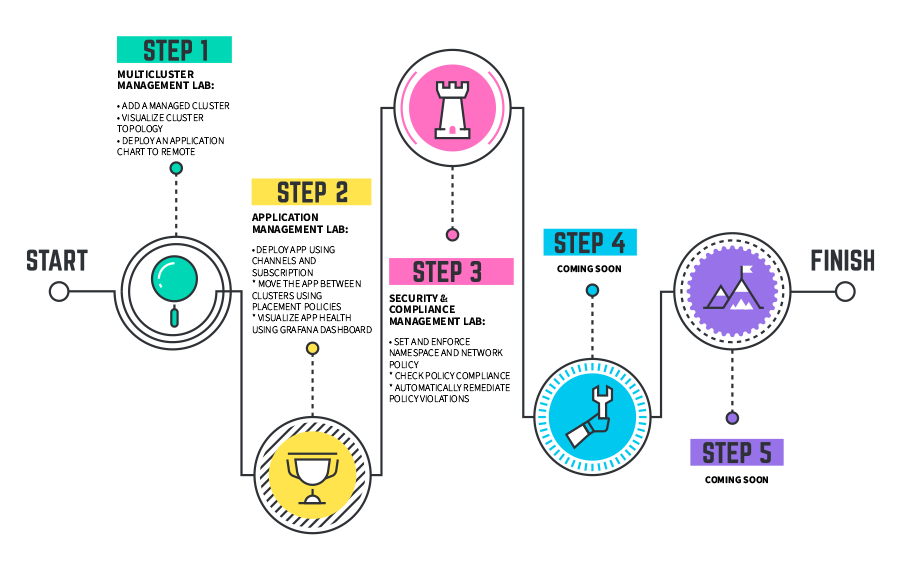
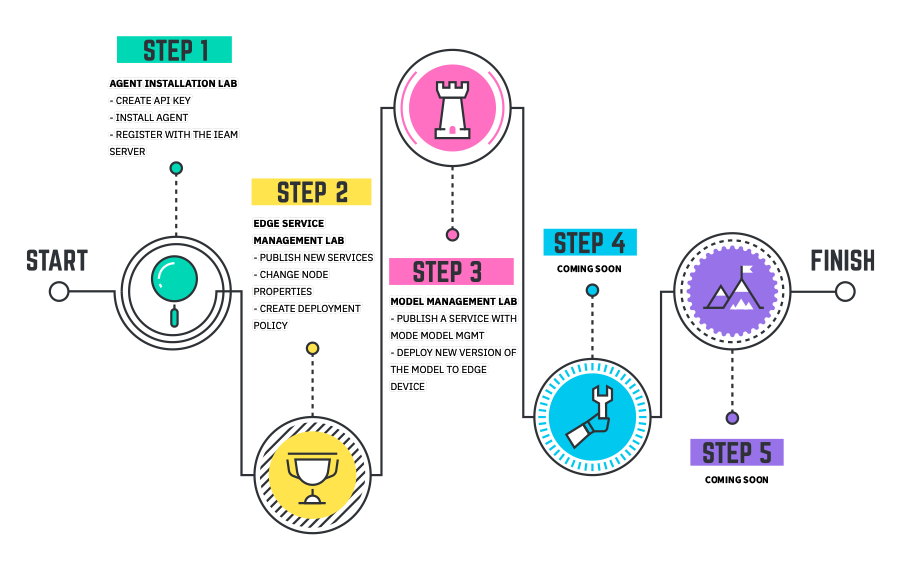
fixed images

Changed region(s): [[0.28, 0.3579, 0.5911, 0.7158], [0.1244, 0.1193, 0.28, 0.2684]]

diff --git a/src/pages/labs/svcmgmt/index.md b/src/pages/labs/svcmgmt/index.md
@@ -8,7 +8,7 @@ description: Managing edge services uing IBM Edge Application Manager
   color="dark"
   >
 
-![banner](/images/grocery-banner.jpg)
+![banner](/images/grocery-banner.png)
 
 </FeatureCard>
 
@@ -28,16 +28,16 @@ description: Managing edge services uing IBM Edge Application Manager
 
 ## Lab Overview
 
-IBM Cloud Pak for Multicloud Management provides consistent visibility, automation, and governance across a range of multicloud management capabilities such as cost and asset management, infrastructure management, application management, multi-cluster management, edge management, and integration with existing tools and processes. Customers can leverage Cloud Pak for Multicloud Management to simplify their IT and application ops management, while increasing flexibility and cost savings with intelligent data analysis driven by predictive signals.
+    IBM Cloud Pak for Multicloud Management provides consistent visibility, automation, and governance across a range of multicloud management capabilities such as cost and asset management, infrastructure management, application management, multi-cluster management, edge management, and integration with existing tools and processes. Customers can leverage Cloud Pak for Multicloud Management to simplify their IT and application ops management, while increasing flexibility and cost savings with intelligent data analysis driven by predictive signals.
 
-IBM Cloud Pak for Multicloud Management can manage Kubernetes clusters that are deployed on any target infrastructure - either in your own data center or in a public cloud.
+    IBM Cloud Pak for Multicloud Management can manage Kubernetes clusters that are deployed on any target infrastructure - either in your own data center or in a public cloud.
 
-In this tutorial, you will explore the following key capabilities:
+    In this tutorial, you will explore the following key capabilities:
 
-- Understand IBM Edge Application Manager
-- Learn how to add and configure edge nodes
-- Learn how to register a new edge workloads (services)
-- Learn how to enable autonomous management with policies
+    - Understand IBM Edge Application Manager
+    - Learn how to add and configure edge nodes
+    - Learn how to register a new edge workloads (services)
+    - Learn how to enable autonomous management with policies
 
 ***
 
@@ -49,33 +49,31 @@ This tutorial assume that you have already installed agent on edge device and re
 
 ## Business Context
 
-Edge computing combined with 5G creates tremendous opportunities for new products, platforms, and experiences in every industry. Edge brings computation and data storage closer to where data is created by people, places and things - to enable faster insights and actions, reduce data exposure and maintain continuous operations. By 2025, 75 percent of enterprise data will be processed at the Edge, compared to only 10 percent today. IBM extends cloud computing to the Edge, with autonomous management capabilities that address new challenges of massive scale, variability, and rate of change - in enterprises and in telcos. [IBM Edge Application Manager](https://www.ibm.com/cloud/edge-application-manager) runs on Red Hat OpenShift, the leading open hybrid multicloud platform that runs anywhere - from any data center, to multiple clouds, to the edge.
+  Edge computing combined with 5G creates tremendous opportunities for new products, platforms, and experiences in every industry. Edge brings computation and data storage closer to where data is created by people, places and things - to enable faster insights and actions, reduce data exposure and maintain continuous operations. By 2025, 75 percent of enterprise data will be processed at the Edge, compared to only 10 percent today. IBM extends cloud computing to the Edge, with autonomous management capabilities that address new challenges of massive scale, variability, and rate of change - in enterprises and in telcos. [IBM Edge Application Manager](https://www.ibm.com/cloud/edge-application-manager) runs on Red Hat OpenShift, the leading open hybrid multicloud platform that runs anywhere - from any data center, to multiple clouds, to the edge.
 
 ***
 
 ## Scenario Introduction
 
-ACME Grocery wants to deliver a new user experience in their stores.
+    ACME Grocery wants to deliver a new user experience in their stores.
 
-ACME Grocery is a retail chain that recently started a project to modernize its stores to enhance customer experience and achieve cost savings adopting some of the modern AI-based technologies. In the first phase of the project, the retail chain is deploying smart devices in its locations distributed across the country.
+    ACME Grocery is a retail chain that recently started a project to modernize its stores to enhance customer experience and achieve cost savings adopting some of the modern AI-based technologies. In the first phase of the project, the retail chain is deploying smart devices in its locations distributed across the country.
 
-There are two types of devices to be managed:
+    There are two types of devices to be managed:
 
-- **Smart shopping carts** (also known aa "smartcarts")
+    - **Smart shopping carts** (also known aa "smartcarts")
 
-- **Smart scales** for weighting unpackaged goods, which automatically
-    detect what is being weighted to apply correct price (smart camera
-    with AI-based visual recognition)
+    - **Smart scales** for weighting unpackaged goods, which automatically
+        detect what is being weighted to apply correct price (smart camera
+        with AI-based visual recognition)
 
-In this scenario, you are the Operations team engineer responsible for managing the smart devices at scale.
-
-***
-
-
+    In this scenario, you are the Operations team engineer responsible for managing the smart devices at scale.
 
 ***
 
-## Registering the edge-device as "smartcart"
+## Publish edge services
+
+  To start deploying workloads to edge devices you have to first define the services in the IBM Edge Application Manager management hub. The detailed instructions are available in the [Knowledge Center](https://www.ibm.com/support/knowledgecenter/pl/SSFKVV_4.2/developing/developing_edge_services.html). For the following lab, you can use the shortened version using the files prepared for you in the GitHub respository and sample docker images already published to the DockerHub.
 
   If you restarted SSH connection after performing agent installation lab, setup the required environment variables ($USERNAME refers to your user in the IBM Edge Application Manager web console)
 
@@ -93,7 +91,20 @@ In this scenario, you are the Operations team engineer responsible for managing 
   cd edge-demo
   ```
 
-  1. To change the node type and node properties, you need to first unregister the device from the IBM Edge Application Manager server. This activity is done usually only in the development and testing phase. In real life, the physical edge devices get their configuration during the initial install process.
+  To publish a service you have to first create the signing key. This key will be used to ensure the service origination and will prevent tampering or unathorized modifications to service metadata.
+
+  The repository that you have copied above contains the definitions of multiple services and a script that will automate the process. To run the script issue the following command in the terminal windows connected to your edge device:
+
+  ```sh
+  publish-services.sh
+  ```
+
+  
+***
+
+## Registering the edge-device as "smartcart"
+
+  1. Node properties can be defined in the Web cosnole of IBM Edge Application Manager, however this approach is not practical to manage devices at scale. In the following exercise you will use a scripted approach leveraging the Horizon CLI. To change the node type and node properties uzing the `hzn` command, you need to first unregister the device from the IBM Edge Application Manager server. This activity is done usually only in the development and testing phase. In real life, the physical edge devices get their configuration during the initial install process.
 
      To unregister device run the following command in the Terminal window opened on "edge-device" virtual machine
 
